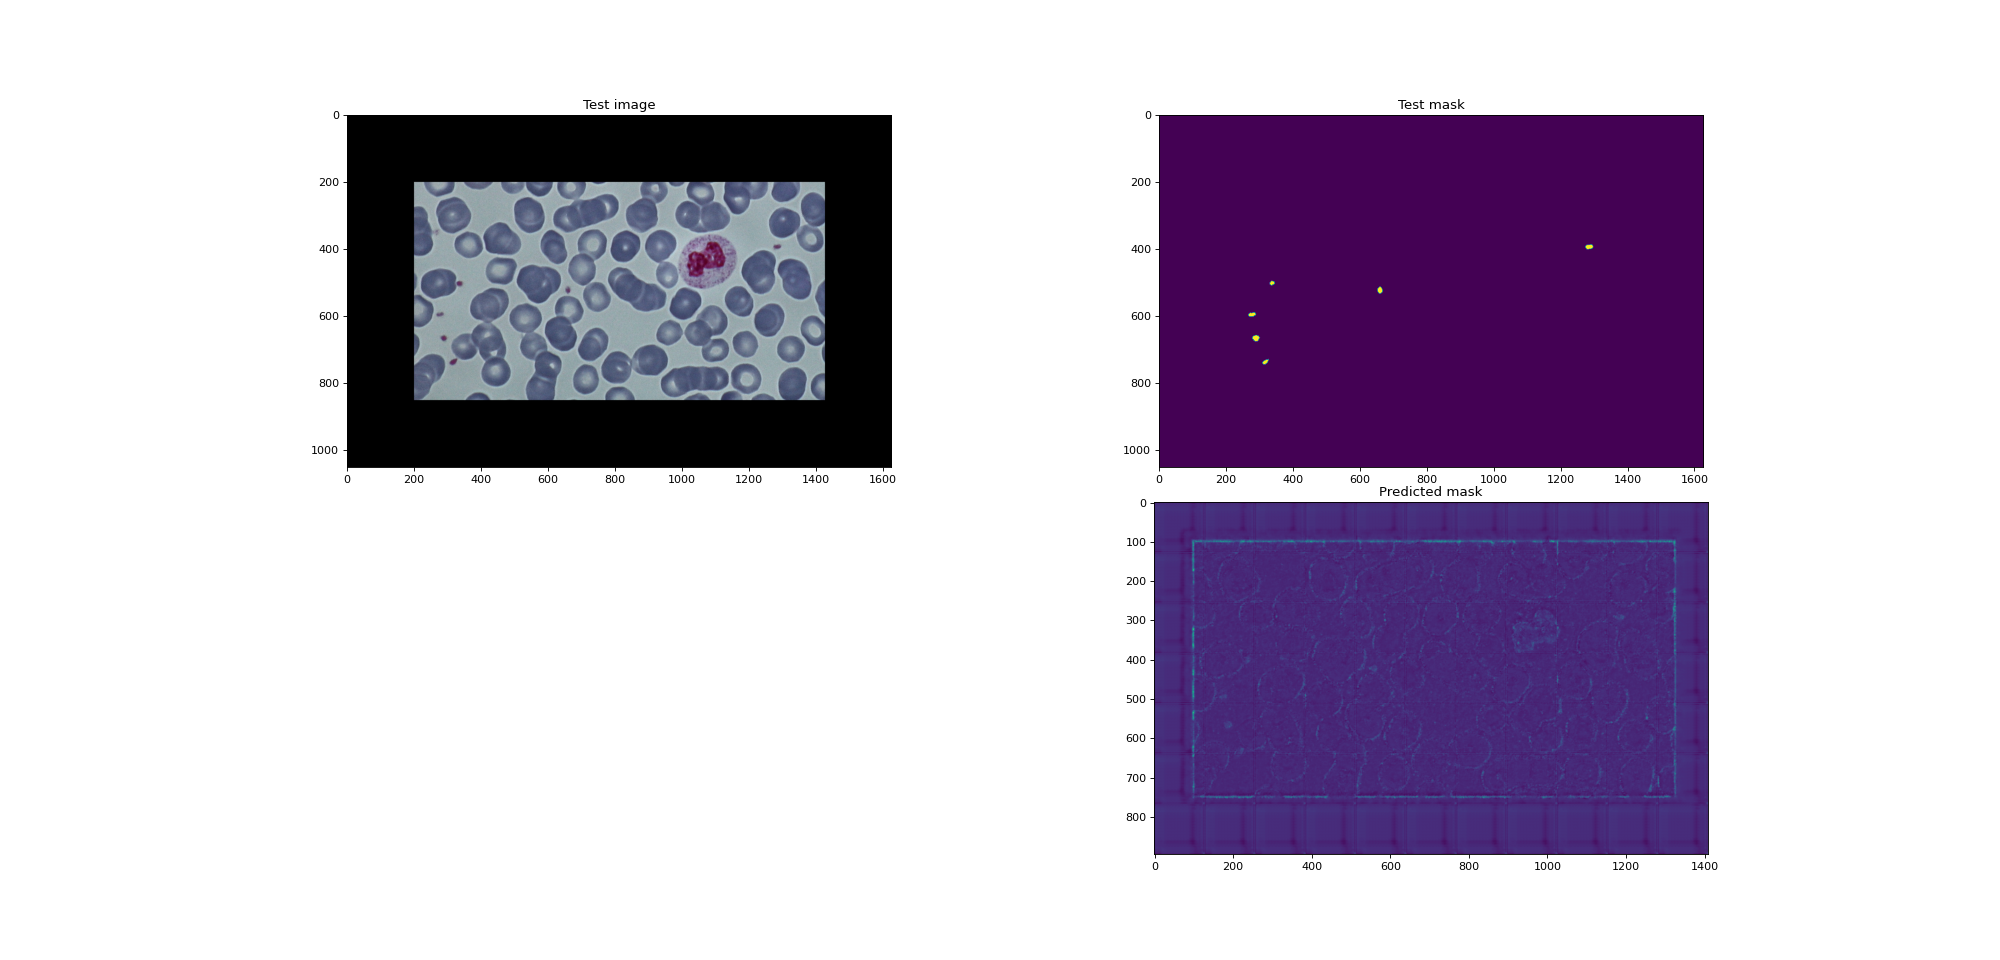
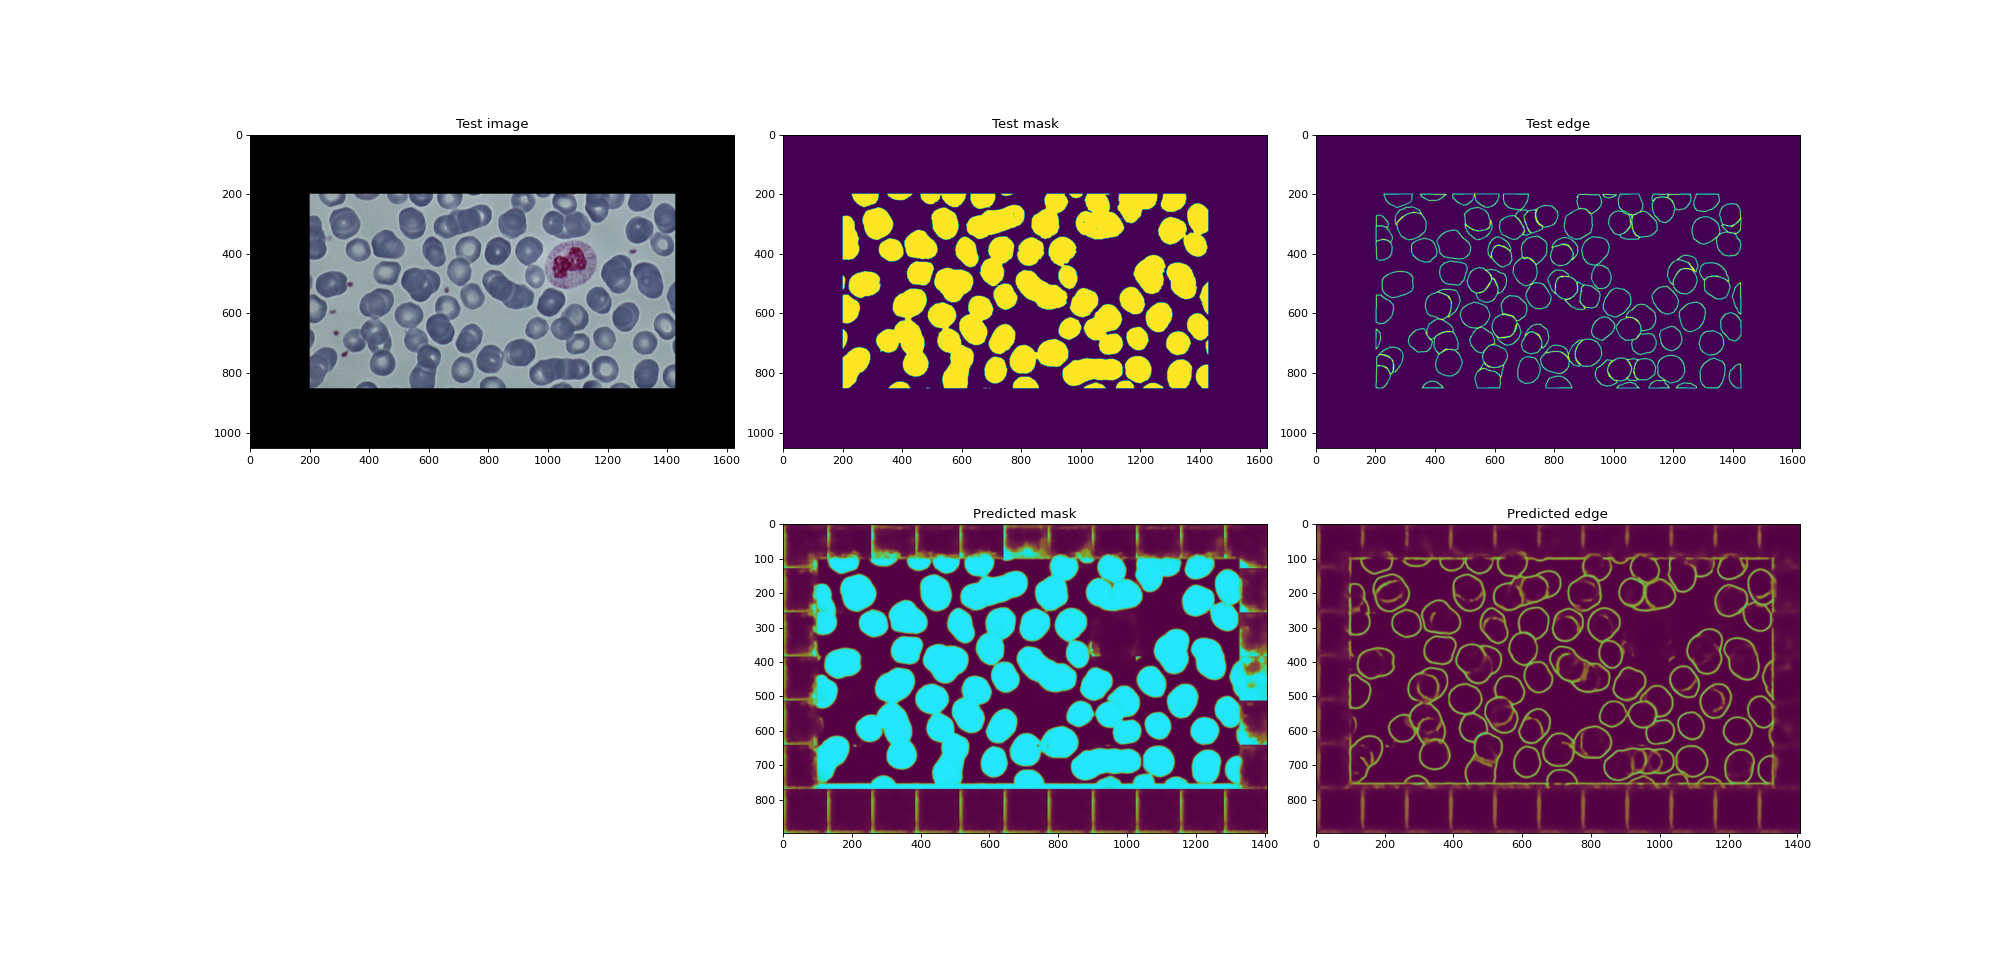
updated segnet and do_unet results!

diff --git a/bc-count/model.py b/bc-count/model.py
@@ -42,7 +42,7 @@ def conv_bn(filters,
         kernel=3
         activation='relu'
         strides=(1, 1)
-        padding='valid'
+        padding='same'
         type='normal'
 
     if type == 'transpose':
@@ -154,7 +154,7 @@ def do_unet():
                       metrics='accuracy')
     return model
 
-def segnet2():
+def segnet():
     inputs = tf.keras.layers.Input((128, 128, 3))
 
     # encoder
@@ -231,87 +231,3 @@ def segnet2():
                       optimizer=opt,
                       metrics='accuracy')
     return model
-
-
-
-
-
-
-def segnet():
-    inputs = tf.keras.layers.Input((512, 512, 3))
-
-    # encoder
-    filters = 64
-    encoder1 = conv_bn(filters, inputs, model_type)
-    encoder1 = conv_bn(filters, encoder1, model_type)
-    pool1, mask1 = tf.nn.max_pool_with_argmax(encoder1, 3, 2, padding="VALID")
-
-    filters *= 2
-    encoder2 = conv_bn(filters, pool1, model_type)
-    encoder2 = conv_bn(filters, encoder2, model_type)
-    pool2, mask2 = tf.nn.max_pool_with_argmax(encoder2, 3, 2, padding="VALID")
-
-    filters *= 2
-    encoder3 = conv_bn(filters, pool2, model_type)
-    encoder3 = conv_bn(filters, encoder3, model_type)
-    encoder3 = conv_bn(filters, encoder3, model_type)
-    pool3, mask3 = tf.nn.max_pool_with_argmax(encoder3, 3, 2, padding="VALID")
-
-    filters *= 2
-    encoder4 = conv_bn(filters, pool3, model_type)
-    encoder4 = conv_bn(filters, encoder4, model_type)
-    encoder4 = conv_bn(filters, encoder4, model_type)
-    pool4, mask4 = tf.nn.max_pool_with_argmax(encoder4, 3, 2, padding="VALID")
-
-    encoder5 = conv_bn(filters, pool4, model_type)
-    encoder5 = conv_bn(filters, encoder5, model_type)
-    encoder5 = conv_bn(filters, encoder5, model_type)
-    pool5, mask5 = tf.nn.max_pool_with_argmax(encoder5, 3, 2, padding="VALID")
-
-    # decoder
-    unpool1 = tfa.layers.MaxUnpooling2D()(pool5, mask5)
-    decoder1 = conv_bn(filters, unpool1, model_type)
-    decoder1 = conv_bn(filters, decoder1, model_type)
-    decoder1 = conv_bn(filters, decoder1, model_type)
-
-    unpool2 = tfa.layers.MaxUnpooling2D()(decoder1, mask4)
-    decoder2 = conv_bn(filters, unpool2, model_type)
-    decoder2 = conv_bn(filters, decoder2, model_type)
-    decoder2 = conv_bn(filters/2, decoder2, model_type)
-
-    filters /= 2
-    unpool3 = tfa.layers.MaxUnpooling2D()(decoder2, mask3)
-    decoder3 = conv_bn(filters, unpool3, model_type)
-    decoder3 = conv_bn(filters, decoder3, model_type)
-    decoder3 = conv_bn(filters/2, decoder3, model_type)
-
-    filters /= 2
-    unpool4 = tfa.layers.MaxUnpooling2D()(decoder3, mask2)
-    decoder4 = conv_bn(filters, unpool4, model_type)
-    decoder4 = conv_bn(filters/2, decoder4, model_type)
-
-    filters /= 2
-    unpool5 = tfa.layers.MaxUnpooling2D()(decoder4, mask1)
-    decoder5 = conv_bn(filters, unpool5, model_type)
-
-    out_mask = tf.keras.layers.Conv2D(1, (1, 1), activation='sigmoid', name='mask')(decoder5)
-
-    if cell_type == 'rbc':
-        out_edge = tf.keras.layers.Conv2D(1, (1, 1), activation='sigmoid', name='edge')(decoder5)
-        model = tf.keras.models.Model(inputs=inputs, outputs=(out_mask, out_edge))
-    elif cell_type == 'wbc' or cell_type == 'plt':
-        model = tf.keras.models.Model(inputs=inputs, outputs=(out_mask))
-
-    opt = tf.optimizers.Adam(learning_rate=0.0001)
-
-    if cell_type == 'rbc':
-        model.compile(loss='mse',
-                      loss_weights=[0.1, 0.9],
-                      optimizer=opt,
-                      metrics='accuracy')
-    elif cell_type == 'wbc' or cell_type == 'plt':
-        model.compile(loss='mse',
-                      optimizer=opt,
-                      metrics='accuracy')
-    return model
-

diff --git a/bc-count/main.py b/bc-count/main.py
@@ -255,18 +255,18 @@ def predict(img='Im037_0'):
         plt.imsave(f'{output_directory}/edge.png', new_edge)
         plt.imsave(f'{output_directory}/edge_mask.png', new_mask - new_edge)
 
-    # if model_type == 'segnet':
-    #     # denoise all the output images
-    #     new_mask  = denoise(f'{output_directory}/mask.png')
-    #     if cell_type == 'rbc':
-    #         new_edge  = denoise(f'{output_directory}/edge.png')
-    #         edge_mask = denoise(f'{output_directory}/edge_mask.png')
+    if model_type == 'segnet':
+        # denoise all the output images
+        new_mask  = denoise(f'{output_directory}/mask.png')
+        if cell_type == 'rbc':
+            new_edge  = denoise(f'{output_directory}/edge.png')
+            edge_mask = denoise(f'{output_directory}/edge_mask.png')
 
-    #     # save predicted mask and edge after denoising
-    #     plt.imsave(f'{output_directory}/mask.png', new_mask)
-    #     if cell_type == 'rbc':
-    #         plt.imsave(f'{output_directory}/edge.png', new_edge)
-    #         plt.imsave(f'{output_directory}/edge_mask.png', edge_mask)
+        # save predicted mask and edge after denoising
+        plt.imsave(f'{output_directory}/mask.png', new_mask)
+        if cell_type == 'rbc':
+            plt.imsave(f'{output_directory}/edge.png', new_edge)
+            plt.imsave(f'{output_directory}/edge_mask.png', edge_mask)
 
     # organize results into one figure
     if cell_type == 'rbc':
@@ -506,19 +506,19 @@ if __name__ == '__main__':
     The main function, which handles all the function call
     (later on, this will dynamically call functions according user input)
     '''
-    train('plt_segnet_test', epochs=50)
+    # train('plt_segnet', epochs=50)
     # evaluate(model_name='rbc')
-    # predict()
-    # threshold('mask.png')
+    predict()
+    threshold('mask.png')
 
-    # if cell_type == 'rbc':
-    #     threshold('edge.png')
-    #     threshold('edge_mask.png')
-    #     distance_transform('threshold_edge_mask.png')
-    #     hough_transform('edge.png')
-    # else:
-    #     distance_transform('threshold_mask.png')
-    #     hough_transform('mask.png')
+    if cell_type == 'rbc':
+        threshold('edge.png')
+        threshold('edge_mask.png')
+        distance_transform('threshold_edge_mask.png')
+        hough_transform('edge.png')
+    else:
+        distance_transform('threshold_mask.png')
+        hough_transform('mask.png')
 
-    # component_labeling('distance_transform.png')
+    component_labeling('distance_transform.png')
 

diff --git a/bc-count/config.py b/bc-count/config.py
@@ -17,7 +17,7 @@ which stands for:
     wbc --> White blood cells
     plt --> Platelets
 '''
-cell_type  = 'rbc'              # rbc, wbc or plt
+cell_type  = 'rbc'             # rbc, wbc or plt
 model_type = 'segnet'          # do_unet or segnet
 
 if model_type == 'do_unet':
@@ -26,8 +26,8 @@ if model_type == 'do_unet':
     output_shape = (100, 100, 1)
 else:
     model_name   = cell_type + '_segnet'
-    input_shape  = (512, 512, 3)
-    output_shape = (110, 110, 1)
+    input_shape  = (128, 128, 3)
+    output_shape = (128, 128, 1)
 
 padding = [200, 100]
 output_directory = 'output/' + model_type + '/' + cell_type
